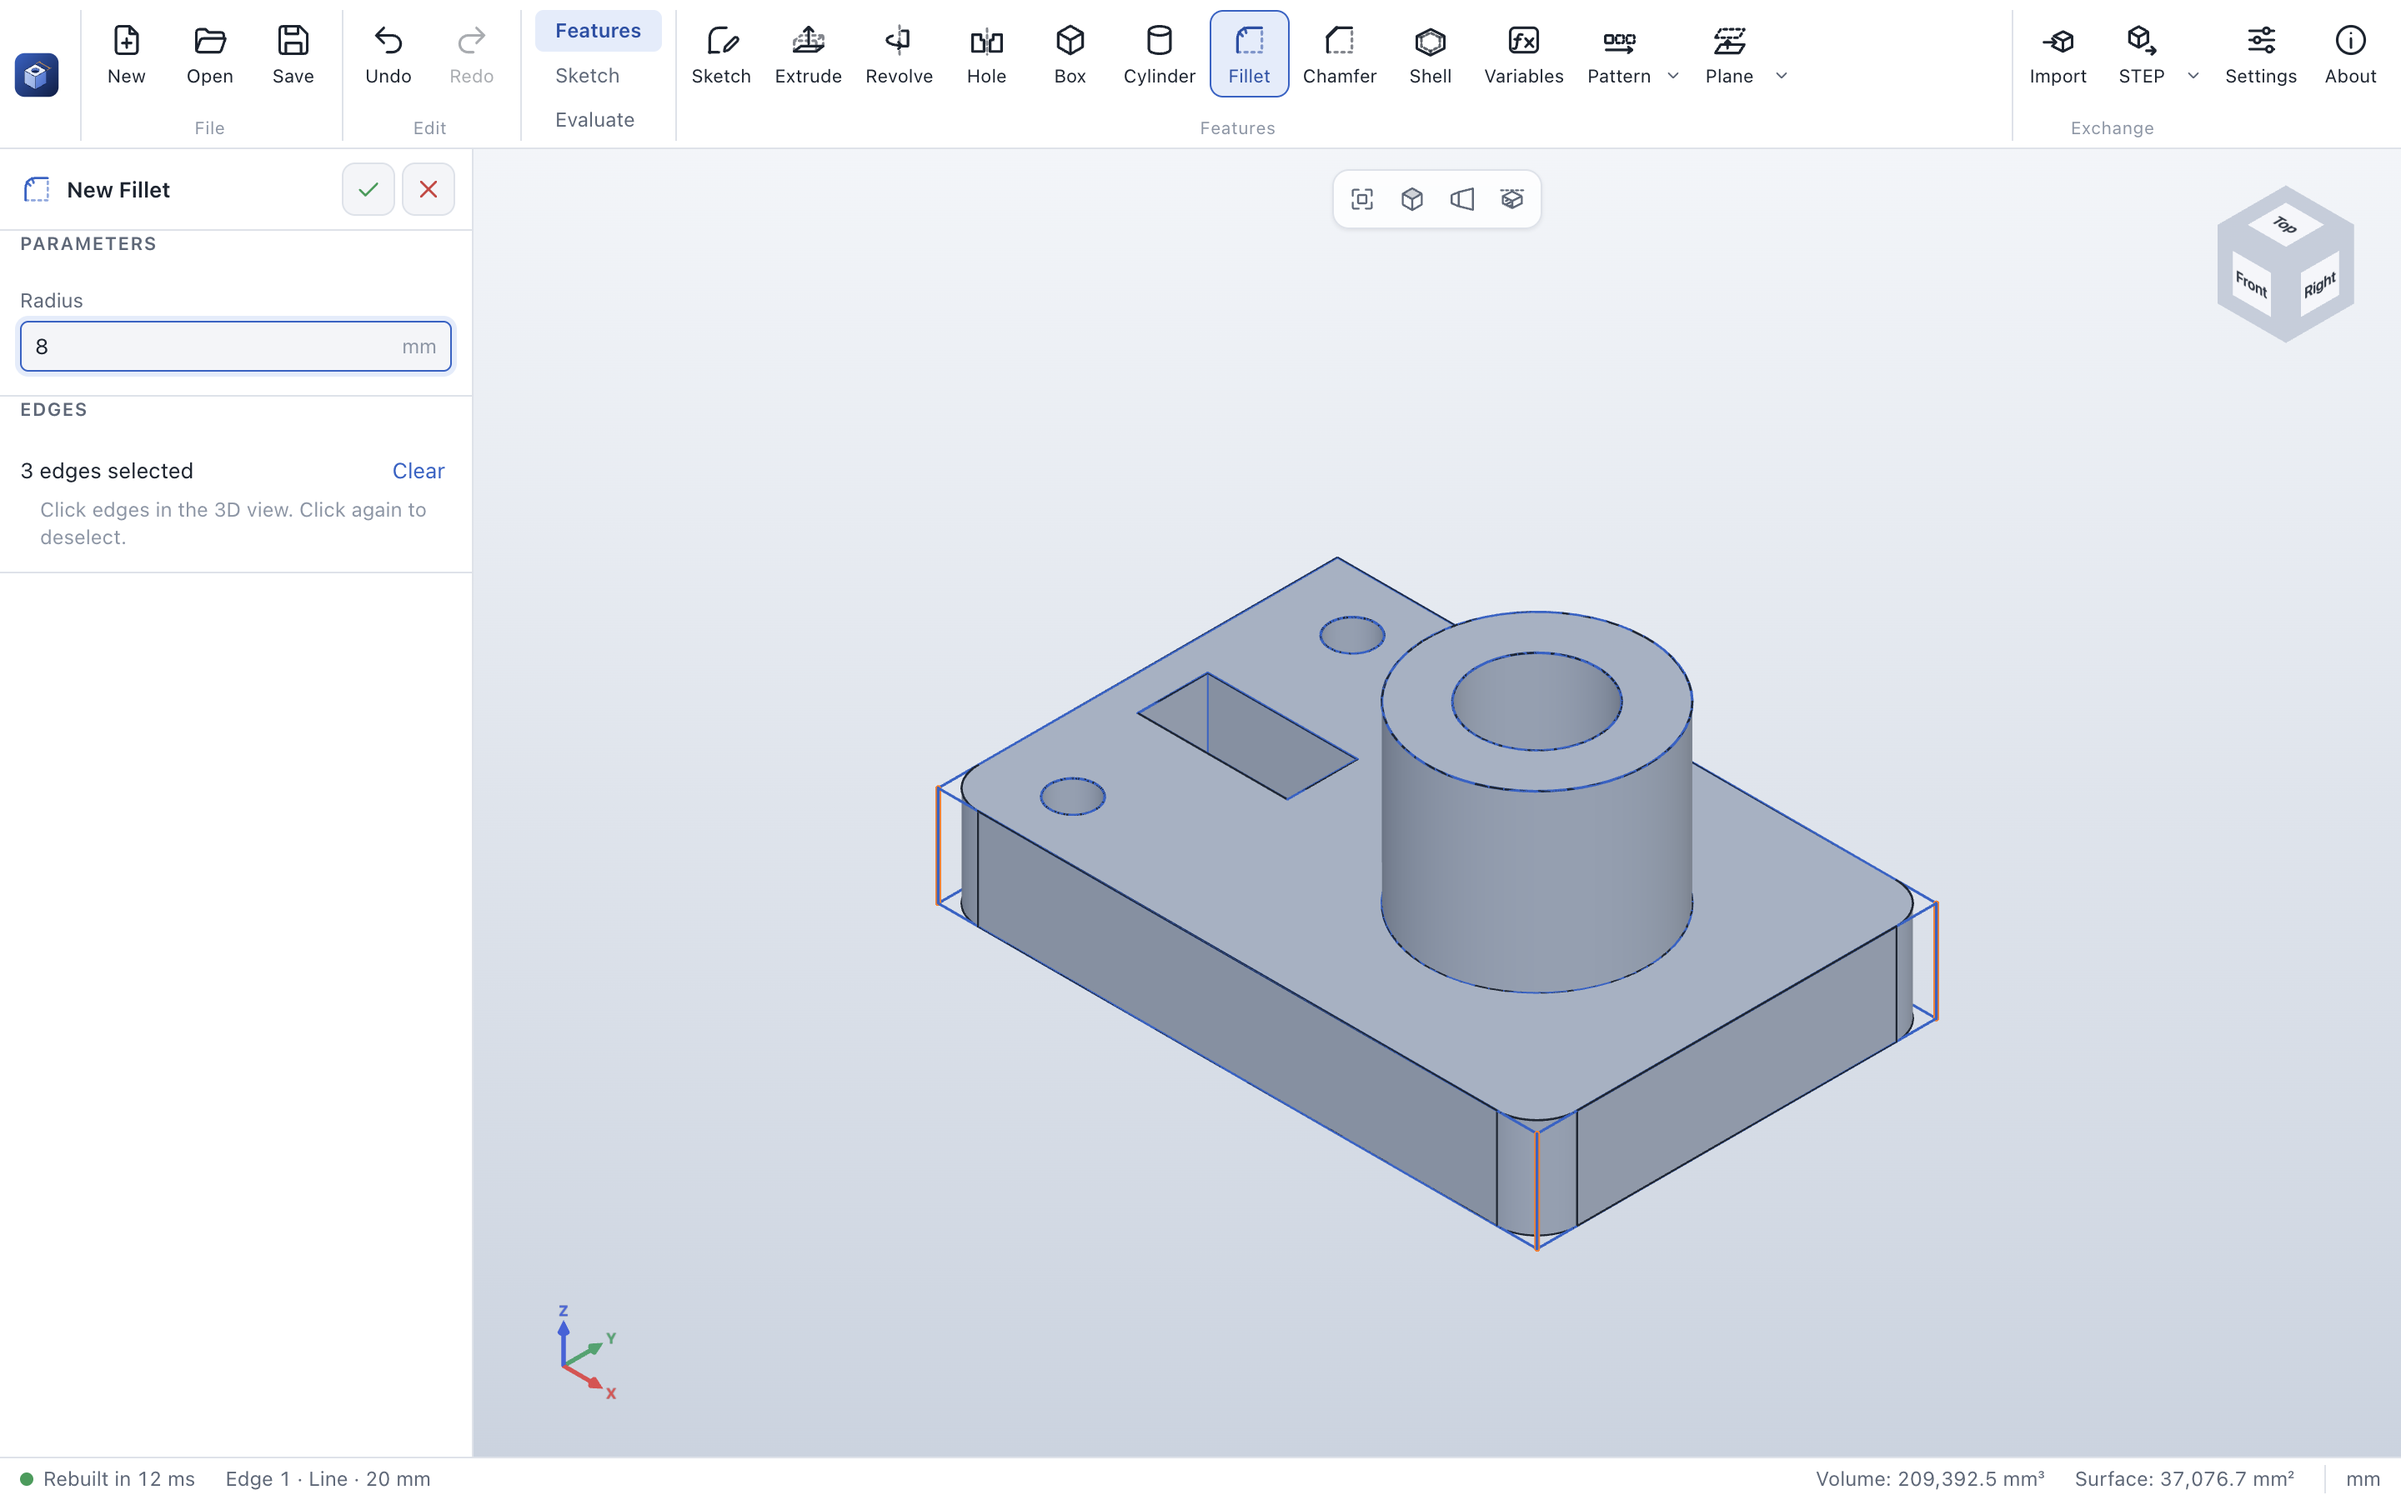
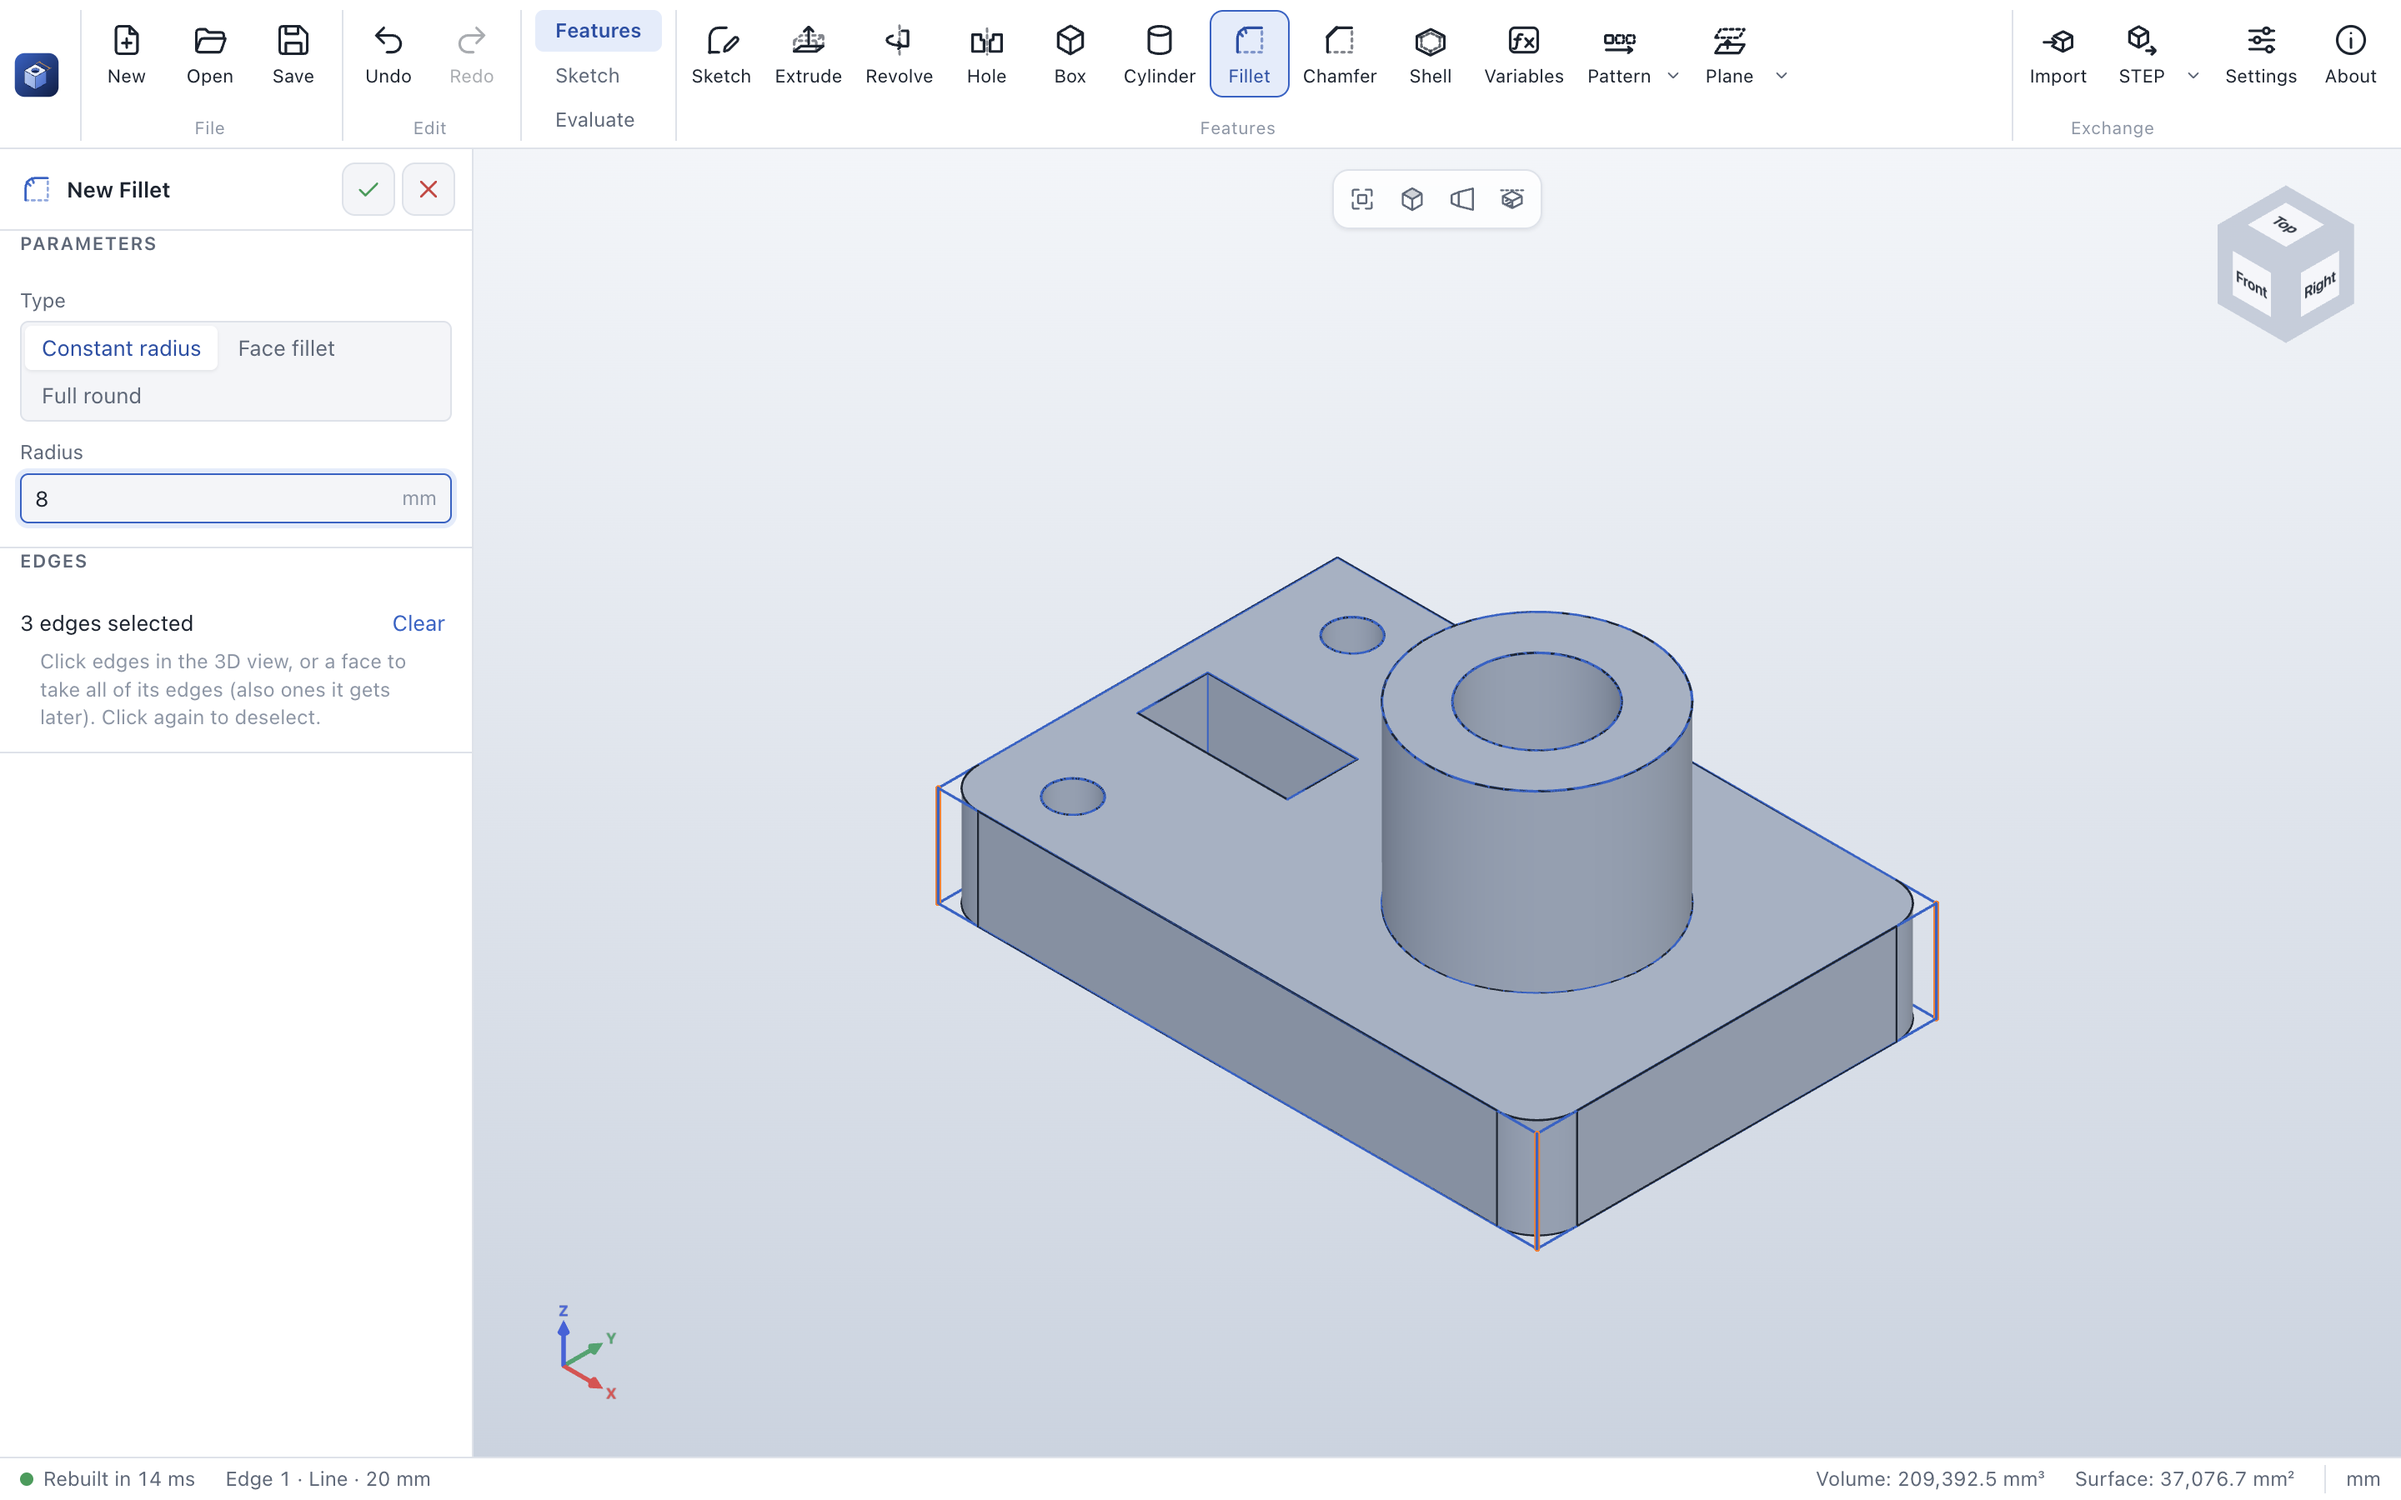
Prepare release 0.3.0-alpha.1: Phase 2 complete
- Version 0.3.0-alpha.1; CHANGELOG section for thin features, coordinate
  systems, fillets and chamfers on faces, face fillets and full rounds;
  release notes with highlights and screenshots
  (docs/release-notes/v0.3.0-alpha.1.md).
- All screenshots regenerated (the fillet panel now has its type field).
- ROADMAP links the release.

Claude-Session: https://claude.ai/code/session_014mH4hRaMFdGVSXx59CTqyr

Changed region(s): [[0.0, 0.1867, 0.1875, 0.3733], [0.0, 0.4044, 0.1562, 0.4978]]

diff --git a/docs/release-notes/v0.3.0-alpha.1.md b/docs/release-notes/v0.3.0-alpha.1.md
@@ -1,0 +1,69 @@
+# ParaWerk 0.3.0-alpha.1 – Phase 2 complete
+
+This alpha completes the features of **part modeling**, Phase 2 of the [roadmap](../../ROADMAP.md): thin
+features, coordinate systems, fillets and chamfers on whole faces, face fillets and full rounds come on
+top of [0.3.0-alpha.0](v0.3.0-alpha.0.md). It is an alpha to try out and give feedback on, not yet a tool
+for productive work.
+
+## Highlights
+
+### Thin features
+
+**Thin feature** in Extrude and Revolve makes walls of a *Wall thickness* along the curves of a sketch
+instead of the areas they enclose – brackets and channels from a bent profile, ribs from a single line,
+tubes from a closed outline, cups from a revolved profile. Open curves work too; a sketch of open curves
+starts as a thin feature right away. The walls go to one side, the other or both, lines and arcs stay
+exact and meet in sharp corners.
+
+![A bracket extruded as a thin feature from an open profile: flange, bend and web with 3 mm walls](../images/screenshots/extrude-thin.png)
+
+### Rounds
+
+- **Fillets and chamfers on faces:** click a face to round or bevel all of its edges – also edges it
+  gets later, such as the rim of a hole cut into it before the fillet.
+- **Face fillet:** a round of a radius between two planar faces at a corner, also where they share no
+  edge (a chamfer or step between them is rounded over); an inner corner is filled.
+- **Full round:** the face between two parallel side faces becomes half a cylinder touching all three –
+  rib tops and tab ends.
+
+| Face fillet in an inner corner | Full round on a rib |
+|---|---|
+| ![Face fillet](../images/screenshots/fillet-faces.png) | ![Full round](../images/screenshots/fillet-full-round.png) |
+
+### Coordinate systems
+
+**Coordinate system** (in the arrow of the **Plane** button) places an origin with three axes: at a
+position turned around Z, or at a vertex with its axes along edges. Mass properties can be given
+**relative to** it, and exports (STEP, STL, 3MF) are written in its coordinates – for example so that a
+part lies on the build plate of a 3D printer the right way up.
+
+![Mass properties relative to a coordinate system on top of the boss](../images/screenshots/mass-properties-csys.png)
+
+### Robustness
+
+The Gate 2 reference suite now has 36 parts with 87 edits at early features; all of them rebuild
+without lost references in every CI run on Windows, macOS and Linux.
+
+## Which file do I need?
+
+| System | Download |
+|---|---|
+| Windows 10/11 (Intel/AMD) | `ParaWerk-0.3.0-alpha.1-win-x64-setup.exe` (installer) or `…-win-x64-portable.exe` |
+| Windows on ARM | `ParaWerk-0.3.0-alpha.1-win-arm64-setup.exe` or `…-win-arm64-portable.exe` |
+| macOS (Apple Silicon and Intel) | `ParaWerk-0.3.0-alpha.1-mac-universal.dmg` (or `…-mac-arm64.dmg` / `…-mac-x64.dmg`) |
+| Linux | AppImage, `.deb`, `.rpm`, `.pacman`, Snap, Flatpak or `.tar.gz` for x64 (`x64`, `x86_64`, `amd64`) or arm64 (`arm64`, `aarch64`) |
+
+The builds are not signed with a developer certificate yet, so the system asks once before the first
+start (on Windows: *More info → Run anyway*). [Getting started](../user-guide/getting-started.md#install)
+shows how to confirm on each system.
+
+## Known limitations
+
+- Not in this alpha yet: sweep, loft, rib, draft as a feature and configurations (Phase 3); assemblies
+  (Phase 4).
+- Thin features offset lines, arcs and circles, not ellipses and splines; face fillets work between
+  planar faces.
+- No multi-body tools yet (combining, splitting or listing separate bodies of a part).
+- Part files of 0.3 (format versions 4–7) cannot be opened by ParaWerk 0.2.
+
+Read the [user guide](../user-guide/README.md) for every tool, step by step.

diff --git a/CHANGELOG.md b/CHANGELOG.md
@@ -7,6 +7,12 @@ and this project will adhere to [Semantic Versioning](https://semver.org/spec/v2
 
 ## [Unreleased]
 
+## [0.3.0-alpha.1] - 2026-10-26
+
+Completes the features of **Phase 2** (part modeling): thin features, coordinate systems, fillets and
+chamfers on whole faces, face fillets and full rounds. Still an alpha: not ready for productive use; see
+the disclaimer in the README.
+
 ### Added
 - Fillet types *Face fillet* and *Full round*. A face fillet rounds with a radius between two planar faces
   at a corner, also where they share no edge (a chamfer or step between them is rounded over, an inner
@@ -23,6 +29,10 @@ and this project will adhere to [Semantic Versioning](https://semver.org/spec/v2
   curves too – instead of the areas they enclose, to one side, the other or both. Lines and arcs are
   offset exactly and meet in sharp corners (an arc around very sharp outside corners); branching curves
   and walls too thick for their curves are reported. A sketch of open curves starts as a thin feature.
+
+### Changed
+- Part files with these features are saved as format version 7, like the other features since 0.3.
+- The German interface says "3D-Ansicht" everywhere (the measure hint said "3D-Fenster").
 
 ## [0.3.0-alpha.0] - 2026-10-26
 
@@ -309,7 +319,8 @@ First technical preview (Phase 0). Not ready for productive use; see the disclai
 ### Removed
 - DWG from the planned formats, because it is a closed, proprietary format. DXF covers 2D exchange.
 
-[Unreleased]: https://github.com/Ujap1994/ParaWerk/compare/v0.3.0-alpha.0...HEAD
+[Unreleased]: https://github.com/Ujap1994/ParaWerk/compare/v0.3.0-alpha.1...HEAD
+[0.3.0-alpha.1]: https://github.com/Ujap1994/ParaWerk/compare/v0.3.0-alpha.0...v0.3.0-alpha.1
 [0.3.0-alpha.0]: https://github.com/Ujap1994/ParaWerk/compare/v0.2.0-alpha.1...v0.3.0-alpha.0
 [0.2.0-alpha.1]: https://github.com/Ujap1994/ParaWerk/compare/v0.2.0-alpha.0...v0.2.0-alpha.1
 [0.2.0-alpha.0]: https://github.com/Ujap1994/ParaWerk/compare/v0.1.0-alpha.0...v0.2.0-alpha.0

diff --git a/ROADMAP.md b/ROADMAP.md
@@ -148,7 +148,8 @@ Marked complete for now: open points from hands-on testing are handled alongside
 ### Phase 2 – features complete, waiting for Gate 2
 
 First preview released as [v0.3.0-alpha.0](https://github.com/Ujap1994/ParaWerk/releases/tag/v0.3.0-alpha.0)
-(part modeling); thin features, coordinate systems and the remaining fillet types followed on 2026-10-26.
+(part modeling); thin features, coordinate systems and the remaining fillet types followed in
+[v0.3.0-alpha.1](https://github.com/Ujap1994/ParaWerk/releases/tag/v0.3.0-alpha.1) (2026-10-26).
 
 | Item | Status |
 |---|---|
